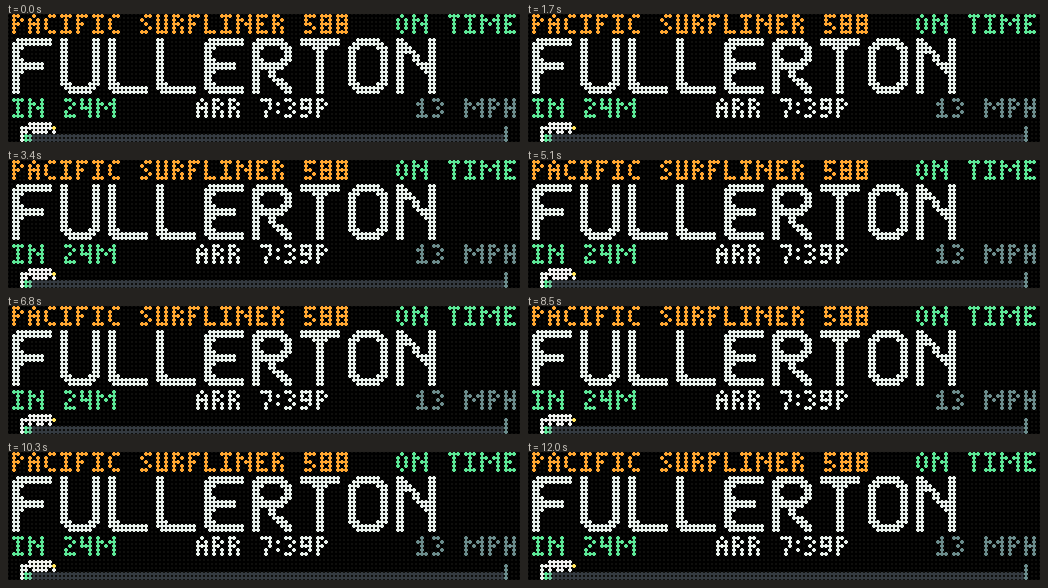
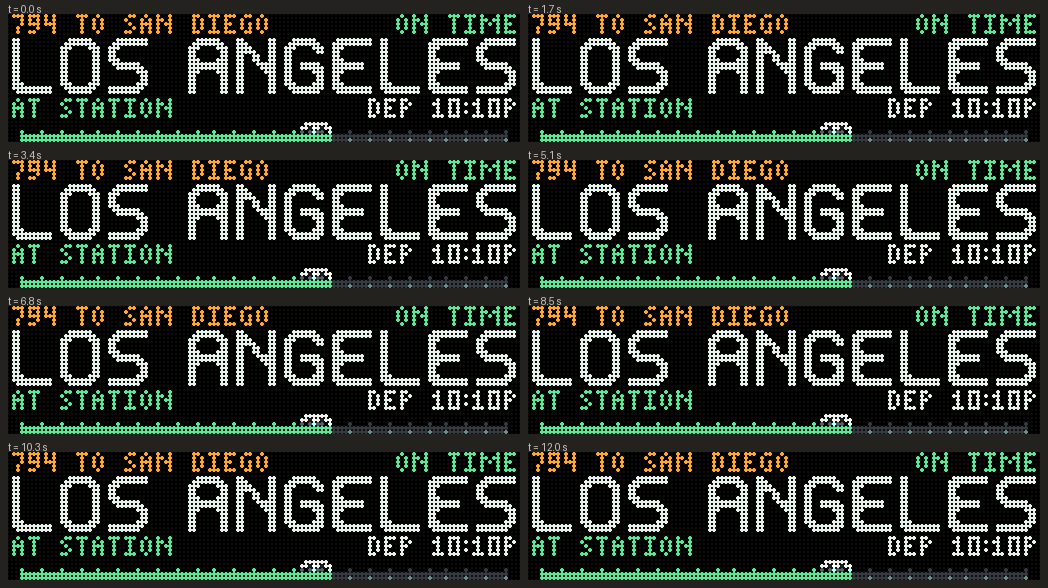
Onboard: the progress bar shows every stop, not just the two ends of one leg, and the train sprite reads as a train
The line only ever drew the last stop and the next one, both unlabeled
dots with a train between them - mid-route it looked identical no
matter where you actually were, since only the immediate next stop's
name shows anywhere on screen. It now plots every stop on the run,
evenly spaced, with the ones already served lit and a small pulse
riding with the train so it stays easy to spot on a long route.

The train itself was a solid off-white blob with no internal
structure. It now has dark windows and a dark wheel row under a light
body, plus its existing headlight, so it reads as a train instead of
a smudge.

diff --git a/plugins/onboard/plugin.py b/plugins/onboard/plugin.py
@@ -31,6 +31,8 @@ API = "https://api-v3.amtraker.com/v3"
 UA = {"User-Agent": "RackTicker onboard (+https://github.com/costamesatechsolutions/rackticker)"}
 TRACK = (52, 58, 64)
 BODY, LAMP = (238, 240, 238), (255, 226, 90)
+WHEEL, WINDOW = (86, 92, 100), (26, 30, 36)
+WINDOWS = {2, 5}   # dx positions in the body row that read as windows, not fuzz
 # Routes worth riding when you have no particular train in mind: (name in the feed, train numbers,
 # a station every train of the route calls at). A route with a hub asks the feed which trains
 # serve it instead of guessing numbers, because a busy corridor has dozens of them.
@@ -457,31 +459,49 @@ class Carriage(Module):
 
     @staticmethod
     def _line(frame, ride, fraction, colour, t):
-        """The line from the last stop to the next, the train on it. Drawn to a fraction of a
-        pixel: at a real train's pace it crosses a pixel every few minutes, and a bar that
-        moves in whole pixels would sit still and then lurch."""
+        """The whole route, stop by stop, not just the two ends of the leg you're on.
+        Every stop is a tick, evenly spaced (a line map, not a scale map); stops
+        already served are lit in the route's colour, the one just behind and the one
+        ahead stand taller, and the train sits between them at a fraction of a pixel
+        (a real train crosses a pixel every few minutes, and whole-pixel steps would
+        sit still and then lurch). A lone pulse rides with it, the one light on the
+        line that moves, so the eye finds it even on a busy multi-stop route."""
+        stops = ride["stops"]
         span = RIGHT - LEFT
-        edge = LEFT + fraction * span
+        legs = max(1, len(stops) - 1)
+        xs = [LEFT + round(index / legs * span) for index in range(len(stops))]
+        next_index = ride["next"]
+        behind_x, ahead_x = xs[max(0, next_index - 1)], xs[next_index]
+        edge = behind_x + fraction * (ahead_x - behind_x) if ahead_x > behind_x else float(ahead_x)
         for y in (30, 31):
             for x in range(LEFT, RIGHT + 1):
                 frame.putpixel((x, y), TRACK)
             for x in range(LEFT, int(edge)):
                 frame.putpixel((x, y), colour)
             blend(frame, int(edge), y, colour, edge - int(edge))
-        for x in (LEFT, RIGHT):                                   # the two stops
-            for y in range(28, 32):
-                frame.putpixel((x, y), WHITE if x == LEFT else MUTED if not ride["here"] else GREEN)
+        for index, x in enumerate(xs):
+            done = index < next_index or (index == next_index and ride["here"])
+            near = index in (next_index - 1, next_index)
+            top = 28 if near else 29
+            frame.putpixel((x, 31), colour if done else WHITE if near else MUTED)
+            for y in range(top, 31):
+                frame.putpixel((x, y), colour if done else MUTED if near else TRACK)
+        pulse = .35 + .35 * math.sin(t * 4)
+        blend(frame, round(edge), 29, colour, pulse)
         wide = len(TRAIN[0])
         wheels = WHEELS[int(t * 2) % 2] if ride["moving"] else WHEELS[0]
         rows = (TRAIN[0], TRAIN[1], wheels)
         # The train's nose is at the head of the bar; drawn twice, weighted by the fraction of a
         # pixel it has moved, so the total light stays the same wherever it is.
-        left = min(max(edge - wide + 1, LEFT + 1), RIGHT - wide) if not ride["here"] else RIGHT - wide - 1
+        left = min(max(edge - wide + 1, LEFT + 1), RIGHT - wide)
         whole, part = int(left), left - int(left)
         for dy, row in enumerate(rows):
             for dx, mark in enumerate(row):
                 if mark == "#":
-                    shade = LAMP if (dx == wide - 1 and dy == 1) else BODY
+                    # Dark wheels and windows on the light body are what read as a
+                    # train at this size; solid white end to end read as a blob.
+                    shade = (WHEEL if dy == 2 else LAMP if dx == wide - 1 and dy == 1
+                             else WINDOW if dy == 1 and dx in WINDOWS else BODY)
                     blend(frame, whole + dx, 27 + dy, shade, 1 - part)
                     blend(frame, whole + dx + 1, 27 + dy, shade, part)
 
